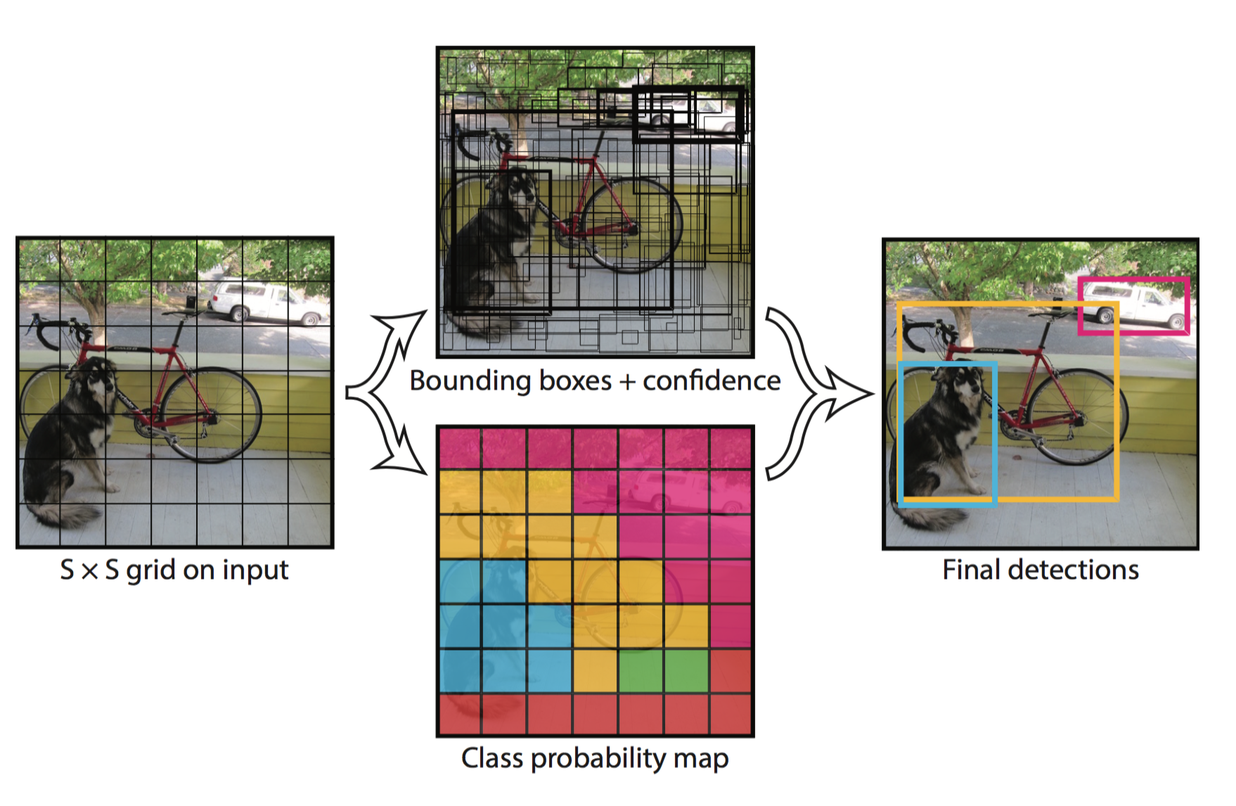
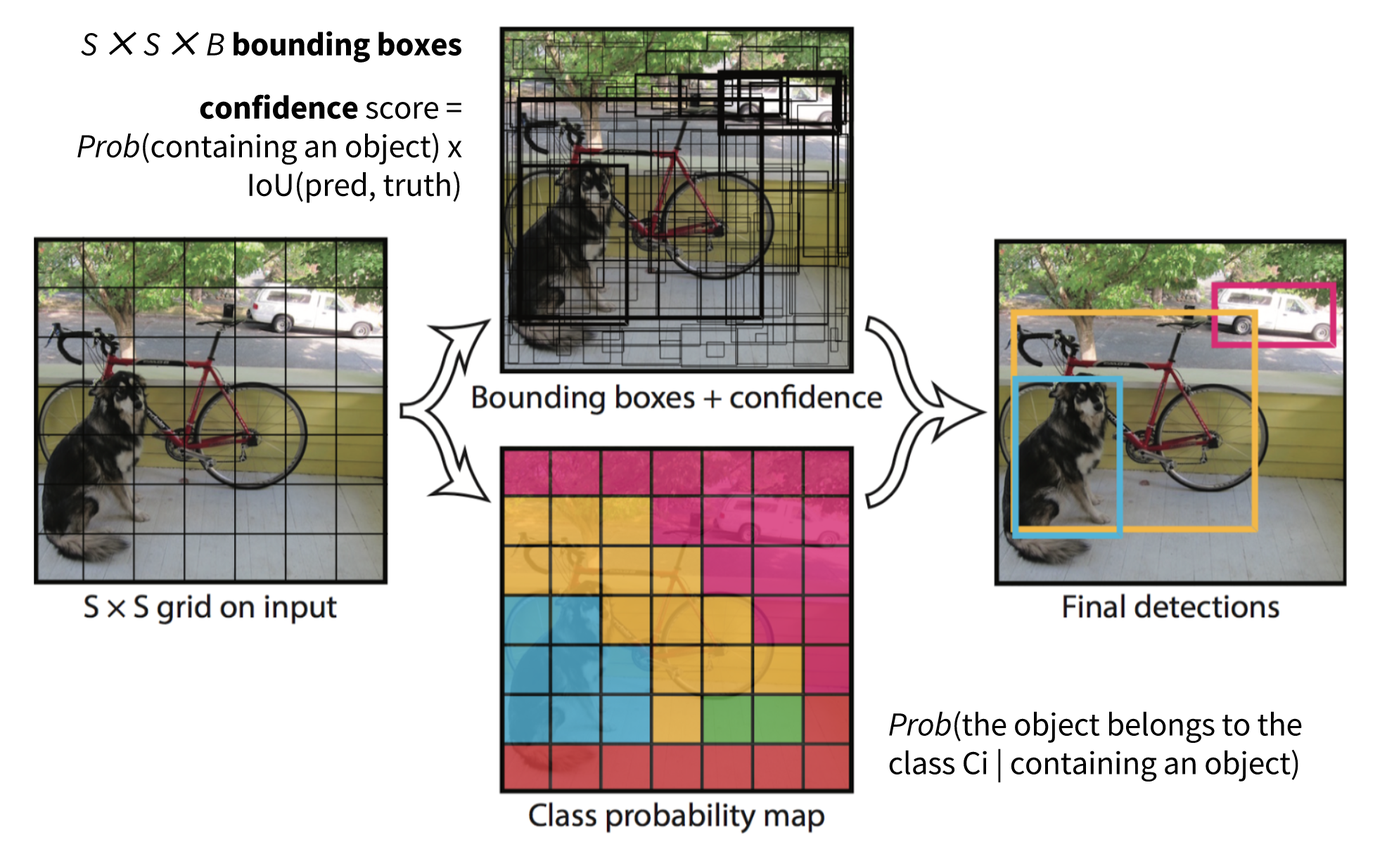
add object recognition for dummies part 3

Changed region(s): [[0.0, 0.0305, 0.9829, 0.9773]]

diff --git a/_posts/2017-12-31-object-recognition-for-dummies-part-3.md b/_posts/2017-12-31-object-recognition-for-dummies-part-3.md
@@ -1,0 +1,339 @@
+---
+layout: post
+comments: false
+title: "Object Recognition for Dummies Part 3: R-CNN and Fast/Faster/Mask R-CNN and YOLO"
+date: 2017-12-31 23:00:00
+---
+
+> In Part 3, we would examine five object recognition models: R-CNN, Fast R-CNN, Faster R-CNN, Mask R-CNN and YOLO. These models are highly related and the new versions show great speed improvement compared to the older ones.
+
+
+<!--more-->
+
+In the series of "Object Recognition for Dummies", we started with basic concepts in image processing, such as gradient vectors and HOG, in [Part 1]({{ site.baseurl }}{% post_url 2017-10-29-object-recognition-for-dummies-part-1 %}). Then we introduced classic convolutional neural network architecture designs for classification and pioneer models for object recognition, Overfeat and DPM, in [Part 2]({{ site.baseurl }}{% post_url 2017-12-15-object-recognition-for-dummies-part-2 %}). In the last post of this series, we are about to review a set of models in the R-CNN ("Region-based CNN") family and YOLO for fast recognition.
+
+{: class="table-of-content"}
+* TOC
+{:toc}
+
+
+
+Here is a list of papers covered in this post ;)
+
+| **Model**    | **Goal**           | **Resources**  |
+| R-CNN        | Object recognition | [[paper](https://arxiv.org/abs/1311.2524)][[code](https://github.com/rbgirshick/rcnn)]   |
+| Fast R-CNN   | Object recognition | [[paper](https://arxiv.org/abs/1504.08083)][[code](https://github.com/rbgirshick/fast-rcnn)]   |
+| Faster R-CNN | Object recognition | [[paper](https://arxiv.org/abs/1506.01497)][[code](https://github.com/rbgirshick/py-faster-rcnn)]  |
+| Mask R-CNN   | Image segmentation | [[paper](https://arxiv.org/abs/1703.06870)][[code](https://github.com/CharlesShang/FastMaskRCNN)] |
+| YOLO         | Fast object recognition | [[paper](https://www.cv-foundation.org/openaccess/content_cvpr_2016/papers/Redmon_You_Only_Look_CVPR_2016_paper.pdf)][[code](https://pjreddie.com/darknet/yolo/)]   |
+{:.info}
+
+
+## R-CNN
+
+R-CNN ([Girshick et al., 2014](https://arxiv.org/abs/1311.2524)) is short for "Region-based Convolutional Neural Networks". The main idea is composed of two steps. First, using [selective search]({{ site.baseurl }}{% post_url 2017-10-29-object-recognition-for-dummies-part-1 %}#selective-search), it identifies a manageable number of bounding-box object region candidates ("region of interest" or "RoI"). And then it extracts CNN features from each region independently for classification.
+
+
+![Architecture of R-CNN]({{ '/assets/images/RCNN.png' | relative_url }})
+{: style="width: 100%;" class="center"}
+*Fig. 1. The architecture of R-CNN. (Image source: [Girshick et al., 2014](https://arxiv.org/abs/1311.2524))*
+
+
+### Model Workflow
+
+How R-CNN works can be summarized as follows:
+
+1. Pre-train a CNN network on image classification tasks; for example, VGG or ResNet trained on [ImageNet](http://image-net.org/index) dataset. The classification task involves N classes. 
+<br />
+*NOTE: You can find a pre-trained [AlexNet](https://github.com/BVLC/caffe/tree/master/models/bvlc_alexnet) in Caffe Model [Zoo](https://github.com/caffe2/caffe2/wiki/Model-Zoo). I don’t think you can [find it](https://github.com/tensorflow/models/issues/1394) in Tensorflow, but Tensorflow-slim model [library](https://github.com/tensorflow/models/tree/master/research/slim) provides pre-trained ResNet, VGG, and others.*
+2. Propose category-independent regions of interest by selective search (~2k candidates per image). Those regions may contain target objects and they are of different sizes.
+3. Region candidates are warped to have a fixed size as required by CNN.
+4. Continue fine-tuning the CNN on warped proposal regions for K + 1 classes; The additional one class refers to the background (no object of interest). In the fine-tuning stage, we should use a much smaller learning rate and the mini-batch oversamples the positive cases because most proposed regions are just background.
+5. Given every image region, one forward propagation through the CNN generates a feature vector. This feature vector is then consumed by a binary SVM trained for each class independently. 
+<br />
+The positive samples are proposed regions with IoU (intersection over union) overlap threshold >= 0.3, and negative samples are irrelevant others.
+6. To reduce the localization errors, a regression model is trained to correct the predicted detection window on bounding box correction offset using CNN features.
+
+
+### Speed Bottleneck
+
+Looking through the R-CNN learning steps, you could easily find out that training an R-CNN model is expensive and slow, as the following steps involve a lot of work:
+- Running selective search to propose 2000 region candidates for every image;
+- Generating the CNN feature vector for every image region (N images * 2000).
+- The whole process involves three models separately without much shared computation: the convolutional neural network for image classification and feature extraction; the top SVM classifier for identifying target objects; and the regression model for tightening region bounding boxes.
+
+
+
+## Fast R-CNN
+
+To make R-CNN faster, Girshick ([2015](https://arxiv.org/pdf/1504.08083.pdf)) improved the training procedure by unifying three independent models into one jointly trained framework and increasing shared computation results, named **Fast R-CNN**. Instead of extracting CNN feature vectors independently for each region proposal, this model aggregates them into one CNN forward pass over the entire image and the region proposals share this feature matrix. Then the same feature matrix is branched out to be used for learning the object classifier and the bounding-box regressor. In conclusion, computation sharing speeds up R-CNN.
+
+![Fast R-CNN]({{ '/assets/images/fast-RCNN.png' | relative_url }})
+{: style="width: 540px;" class="center"}
+*Fig. 2. The architecture of Fast R-CNN. (Image source: [Girshick, 2015](https://arxiv.org/pdf/1504.08083.pdf))*
+
+
+### RoI Pooling
+
+It is a type of max pooling to convert features in the projected region of the image of any size, h x w, into a small fixed window, H x W. The input region is divided into H x W grids, approximately every subwindow of size h/H x w/W. Then apply max-pooling in each grid.
+
+
+![RoI pooling]({{ '/assets/images/roi-pooling.png' | relative_url }})
+{: style="width: 540px;" class="center"}
+*Fig. 3. RoI pooling (Image source: [Stanford CS231n slides](http://cs231n.stanford.edu/slides/2016/winter1516_lecture8.pdf).)*
+
+
+### Model Workflow
+
+How Fast R-CNN works is summarized as follows; many steps are same as in R-CNN: 
+1. First, pre-train a convolutional neural network on image classification tasks.
+2. Propose regions by selective search (~2k candidates per image).
+3. Alter the pre-trained CNN:
+	- Replace the last max pooling layer of the pre-trained CNN with a [RoI pooling](#roi-pooling) layer. The RoI pooling layer outputs fixed-length feature vectors of region proposals. Sharing the CNN computation makes a lot of sense, as many region proposals of the same images are highly overlapped.
+	- Replace the last fully connected layer and the last softmax layer (K classes) with a fully connected layer and softmax over K + 1 classes.
+4. Finally the model branches into two output layers:
+	- A softmax estimator of K + 1 classes (same as in R-CNN, +1 is the "background" class), outputting a discrete probability distribution per RoI.
+	- A bounding-box regression model which predicts offsets relative to the original RoI for each of K classes.
+
+
+### Loss Function
+
+The model is optimized for a loss combining two tasks (classification + localization):
+
+| **Symbol** | **Explanation** |
+| $$u$$ | True class label, $$ u \in 0, 1, \dots, K$$; by convention, the catch-all background class has $$u = 0$$. |
+| $$p$$ | Discrete probability distribution (per RoI) over K + 1 classes: $$p = (p_0, \dots, p_K)$$, computed by a softmax over the K + 1 outputs of a fully connected layer. |
+| $$v$$ | True bounding box $$ v = (v_x, v_y, v_w, v_h) $$. |
+| $$t^u$$ | Predicted bounding box correction, $$t^u = (t^u_x, t^u_y, t^u_w, t^u_h)$$. |
+{:.info}
+
+
+The loss function sums up the cost of classification and bounding box prediction: $$\mathcal{L} = \mathcal{L}_\text{cls} + \mathcal{L}_\text{box}$$. For "background" RoI, $$\mathcal{L}_\text{box}$$ is ignored by the indicator function $$\mathbb{1} [u \geq 1]$$, defined as:
+
+$$
+\mathbb{1} [u >= 1] = \begin{cases}
+    1  & \text{if } u \geq 1\\
+    0  & \text{otherwise}
+\end{cases}
+$$
+
+The overall loss function is:
+
+$$
+\begin{align*}
+\mathcal{L}(p, u, t^u, v) &= \mathcal{L}_\text{cls} (p, u) + \mathbb{1} [u \geq 1] \mathcal{L}_\text{box}(t^u, v) \\
+\mathcal{L}_\text{cls}(p, u) &= -\log p_u \\
+\mathcal{L}_\text{box}(t^u, v) &= \sum_{i \in \{x, y, w, h\}} L_1^\text{smooth} (t^u_i - v_i)
+\end{align*}
+$$
+
+The bounding box loss $$\mathcal{L}_{box}$$ should measure the difference between $$t^u_i$$ and $$v_i$$ using a **robust** loss function. The [smooth L1 loss](https://github.com/rbgirshick/py-faster-rcnn/files/764206/SmoothL1Loss.1.pdf) is adopted here and it is claimed to be less sensitive to outliers.
+
+$$
+L_1^\text{smooth}(x) = \begin{cases}
+    0.5 x^2             & \text{if } \vert x \vert < 1\\
+    \vert x \vert - 0.5 & \text{otherwise}
+\end{cases}
+$$
+
+![Smooth L1 loss]({{ '/assets/images/l1-smooth.png' | relative_url }})
+{: style="width: 240px;" class="center"}
+*Fig. 4. The plot of smooth L1 loss, $$y = L_1^\text{smooth}(x)$$. (Image source: [link](https://github.com/rbgirshick/py-faster-rcnn/files/764206/SmoothL1Loss.1.pdf))*
+
+
+
+### Speed Bottleneck
+
+Fast R-CNN is much faster in both training and testing time. However, the improvement is not dramatic because the region proposals are generated separately by another model and that is very expensive.
+
+
+## Faster R-CNN
+
+An intuitive speedup solution is to integrate the region proposal algorithm into the CNN model. **Faster R-CNN** ([Ren et al., 2016](https://arxiv.org/pdf/1506.01497.pdf)) is doing exactly this: construct a single, unified model composed of RPN (region proposal network) and fast R-CNN with shared convolutional feature layers.
+
+![Faster R-CNN]({{ '/assets/images/faster-RCNN.png' | relative_url }})
+{: style="width: 100%;" class="center"}
+*Fig. 5. An illustration of Faster R-CNN model. (Image source: [Ren et al., 2016](https://arxiv.org/pdf/1506.01497.pdf))*
+
+
+### Model Workflow
+
+1. Pre-train a CNN network on image classification tasks.
+2. Fine-tune the RPN (region proposal network) end-to-end for the region proposal task, which is initialized by the pre-train image classifier. Positive samples have IoU (intersection-over-union) > 0.7, while negative samples have IoU < 0.3.
+	- Slide a small n x n spatial window over the conv feature map of the entire image.
+	- At the center of each sliding window, we predict multiple regions of various scales and ratios simultaneously. An anchor is a combination of (sliding window center, scale, ratio). For example, 3 scales + 3 ratios => k=9 anchors at each sliding position.
+3. Train a Fast R-CNN object detection model using the proposals generated by the current RPN
+4. Then use the Fast R-CNN network to initialize RPN training. While keeping the shared convolutional layers, only fine-tune the RPN-specific layers. At this stage, RPN and the detection network have shared convolutional layers!
+5. Finally fine-tune the unique layers of Fast R-CNN
+6. Step 4-5 can be repeated to train RPN and Fast R-CNN alternatively if needed.
+
+
+### Loss Function
+
+Faster R-CNN is optimized for a multi-task loss function, similar to fast R-CNN.
+
+| **Symbol**  | **Explanation** |
+| $$p_i$$     | Predicted probability of anchor i being an object. |
+| $$p^*_i$$   | Ground truth label (binary) of whether anchor i is an object. |
+| $$t_i$$     | Predicted four parameterized coordinates. |
+| $$t^*_i$$   | Ground truth coordinates. |
+| $$N_\text{cls}$$ | Normalization term, set to be mini-batch size (~256) in the paper. |
+| $$N_\text{box}$$ | Normalization term, set to the number of anchor locations (~2400) in the paper. |
+| $$\lambda$$ | A balancing parameter, set to be ~10 in the paper (so that both $$\mathcal{L}_\text{cls}$$ and $$\mathcal{L}_\text{box}$$ terms are roughly equally weighted). |
+{:.info}
+
+The multi-task loss function combines the losses of classification and bounding box regression:
+
+$$
+\begin{align*}
+\mathcal{L} &= \mathcal{L}_\text{cls} + \mathcal{L}_\text{box} \\
+\mathcal{L}(\{p_i\}, \{t_i\}) &= \frac{1}{N_\text{cls}} \sum_i \mathcal{L}_\text{cls} (p_i, p^*_i) + \frac{\lambda}{N_\text{box}} \sum_i p^*_i \cdot L_1^\text{smooth}(t_i - t^*_i) \\
+\end{align*}
+$$
+
+where $$\mathcal{L}_\text{cls}$$ is the log loss function over two classes, as we can easily translate a multi-class classification into a binary classification by predicting a sample being a target object versus not. $$L_1^\text{smooth}$$ is the smooth L1 loss.
+
+$$
+\mathcal{L}_\text{cls} (p_i, p^*_i) = - p^*_i \log p_i - (1 - p^*_i) \log (1 - p_i)
+$$
+
+
+
+## Mask R-CNN
+
+Mask R-CNN ([He et al., 2017](https://arxiv.org/pdf/1703.06870.pdf)) extends Faster R-CNN to pixel-level [image segmentation]({{ site.baseurl }}{% post_url 2017-10-29-object-recognition-for-dummies-part-1 %}#image-segmentation-felzenszwalbs-algorithm). The key point is to decouple the classification and the pixel-level mask prediction tasks. Based on the framework of [Faster R-CNN](#faster-r-cnn), it added a third branch for predicting an object mask in parallel with the existing branches for classification and localization. The mask branch is a small fully-connected network applied to each RoI, predicting a segmentation mask in a pixel-to-pixel manner.
+
+![Mask R-CNN]({{ '/assets/images/mask-rcnn.png' | relative_url }})
+{: style="width: 550px;" class="center"}
+*Fig. 6. Mask R-CNN is Faster R-CNN model with image segmentation. (Image source: [He et al., 2017](https://arxiv.org/pdf/1703.06870.pdf))*
+
+Because pixel-level segmentation requires much more fine-grained alignment than bounding boxes, mask R-CNN improves the RoI pooling layer (named "RoIAlign layer") so that RoI can be better and more precisely mapped to the regions of the original image.
+
+
+![Mask R-CNN Examples]({{ '/assets/images/mask-rcnn-examples.png' | relative_url }})
+{: style="width: 600px;" class="center"}
+*Fig. 7. Predictions by Mask R-CNN on COCO test set. (Image source: [He et al., 2017](https://arxiv.org/pdf/1703.06870.pdf))*
+
+
+### RoIAlign
+
+The RoIAlign layer is designed to fix the location misalignment caused by quantization in the RoI pooling. RoIAlign removes the hash quantization, for example, by using x/16 instead of [x/16], so that the extracted features can be properly aligned with the input pixels. [Bilinear interpolation](https://en.wikipedia.org/wiki/Bilinear_interpolation) is used for computing the floating-point location values in the input.
+
+
+![RoI Align]({{ '/assets/images/roi-align.png' | relative_url }})
+{: style="width: 600px;" class="center"}
+*Fig. 8. A region of interest is mapped **accurately** from the original image onto the feature map without rounding up to integers. (Image source: [link](https://blog.athelas.com/a-brief-history-of-cnns-in-image-segmentation-from-r-cnn-to-mask-r-cnn-34ea83205de4))*
+
+
+### Loss Function
+
+The multi-task loss function of Mask R-CNN combines the loss of classification, localization and segmentation mask: $$ \mathcal{L} = \mathcal{L}_\text{cls} + \mathcal{L}_\text{box} + \mathcal{L}_\text{mask}$$, where $$\mathcal{L}_\text{cls}$$ and $$\mathcal{L}_\text{box}$$ are same as in Faster R-CNN.
+
+
+The mask branch generates a mask of dimension m x m for each RoI and each class; K classes in total. Thus, the total output is of size $$K \cdot m^2$$. Because the model is trying to learn a mask for each class, there is no competition among classes for generating masks.
+
+$$\mathcal{L}_\text{mask}$$ is defined as the average binary cross-entropy loss, only including k-th mask if the region is associated with the ground truth class k.
+
+$$
+\mathcal{L}_\text{mask} = - \frac{1}{m^2} \sum_{1 \leq i, j \leq m} \big[ y_{ij} \log \hat{y}^k_{ij} + (1-y_{ij}) \log (1- \hat{y}^k_{ij}) \big]
+$$
+
+where $$y_{ij}$$ is the label of a cell (i, j) in the true mask for the region of size m x m; $$\hat{y}_{ij}^k$$ is the predicted value of the same cell in the mask learned for the ground-truth class k.
+
+
+
+
+## Summary of Models in the R-CNN family
+
+Here I illustrate model designs of R-CNN, Fast R-CNN, Faster R-CNN and Mask R-CNN. You can track how one model evolves to the next version by comparing the small differences.
+
+![R-CNN family summary]({{ '/assets/images/rcnn-family-summary.png' | relative_url }})
+{: style="width: 100%;" class="center"}
+
+
+
+## YOLO: You Only Look Once
+
+The YOLO model ("You Only Look Once"; [Redmon et al., 2016](https://www.cv-foundation.org/openaccess/content_cvpr_2016/papers/Redmon_You_Only_Look_CVPR_2016_paper.pdf)) treats the object recognition task as a unified **regression** problem, different from the models in the R-CNN family which learn to solve a **classification** task. In the meantime, YOLO sees the entire image during training and thus it has better performance in recognizing the background with the knowledge of the full context.
+
+
+- **Pros**: Very fast.
+- **Cons**: Accuracy tradeoff; not good at recognizing irregularly shaped objects or a group of small objects (i.e. a flock of birds?)
+
+
+### Workflow
+
+![Mask R-CNN Examples]({{ '/assets/images/YOLO.png' | relative_url }})
+{: style="width: 600px;" class="center"}
+*Fig. 8. The workflow of POLO model. (Image source: [Redmon et al., 2016](https://www.cv-foundation.org/openaccess/content_cvpr_2016/papers/Redmon_You_Only_Look_CVPR_2016_paper.pdf))*
+
+1. Pre-train a CNN network on image classification tasks.
+2. Split an image into S x S cells. Each cell is responsible for identifying the object (if any) with its center located in this cell. Each cell predicts the location of B bounding boxes and a confidence score, and a probability of object class conditioned on the existence of an object in the bounding box.
+	- A bounding box is defined by a tuple of (center x, center y, width, height) --- $$(x, y, w, h)$$. $$x$$ and $$y$$ are normalized to be the offsets of a cell location; $$w$$ and $$h$$ are normalized by the image width and height, and thus between (0, 1].
+	- A confidence score is: *probability*(containing an object) x IoU(pred, truth).
+	- If the cell contains an object, it predicts a probability of this object belonging to one class $$C_i$$, i=1,2,..., K: *probability*(the object belongs to the class $$C_i$$ | containing an object). At this stage, the model only predicts one set of class probabilities per cell, regardless of the number of boxes B.
+	<br />
+	In total, one image contains S x S x B bounding boxes, each box corresponding to 4 location predictions, 1 confidence score, and K conditional probability for object classification. The total prediction values for one image is S x S x (5B + K).
+3. The final layer of the pre-trained CNN is modified to output a prediction tensor of size S x S x (5B + K).
+
+
+### Loss Function
+
+The YOLO is trained to minimize the sum of squared errors, with scale parameters to control how much we want to increase the loss from bounding box coordinate predictions ($$\lambda_\text{coord}$$) and how much we want to decrease the loss from confidence predictions for boxes that don't contain objects ($$\lambda_\text{noobj}$$). In the paper, the model uses $$\lambda_\text{coord} = 5$$ and $$\lambda_\text{noobj} = 0.5$$.
+
+When 
+
+$$
+\begin{align*}
+\mathcal{L} &= 
+\lambda_\text{coord} \sum_{i=0}^{S^2} \sum_{j=0}^B \mathbb{1}_{ij}^\text{obj} [(x_i - \hat{x}_i)^2 + (y_i - \hat{y}_i)^2 + (\sqrt{w_i} - \sqrt{\hat{w}_i})^2 + (\sqrt{h_i} - \sqrt{\hat{h}_i})^2 ] \\
+&+ \sum_{i=0}^{S^2} \sum_{j=0}^B \mathbb{1}_{ij}^\text{obj} (C_{ij} - \hat{C}_{ij})^2 + \lambda_\text{noobj} \sum_{i=0}^{S^2} \sum_{j=0}^B \mathbb{1}_{ij}^\text{noobj} (C_{ij} - \hat{C}_{ij})^2 + \sum_{i=0}^{S^2} \mathbb{1}_i^\text{obj} \sum_{c \in \text{classes}} (p_i(c) - \hat{p}_i(c))^2
+\end{align*}
+$$
+
+where:
+
+| **Symbol**                     | **Explanation** |
+| $$\mathbb{1}_i^\text{obj}$$    | whether the cell i contains an object. | 
+| $$\mathbb{1}_{ij}^\text{obj}$$ | j-th bounding box predictor of the cell i is "responsible" for that prediction (See Fig. 9). |
+| $$C_{ij}$$     | confidence score of the j-th box in cell i, probability(containing an object) * IoU(pred, truth). |
+| $$\hat{C}_{ij}$$ | predicted confidence score. |
+| $$p_i(c)$$       | conditional probability of whether cell i contains an object of class c.   |
+| $$\hat{p}_i(c)$$       | predicted conditional probability of whether cell i contains an object of class c.  |
+{:.info}
+
+> NOTE: In the original YOLO paper, the loss function uses $$C_i$$ instead of $$C_{ij}$$. I made the correction based on my own understanding. Please kindly let me if you do not agree. Many thanks.
+
+
+![Mask R-CNN Examples]({{ '/assets/images/YOLO_predictor.png' | relative_url }})
+{: style="width: 560px;" class="center"}
+*Fig. 9. At one location, in cell i, the model proposes B bounding box candidates and the one with highest IoU with the ground truth is the "responsible" predictor.*
+
+
+The loss function only penalizes classification error if an object is present in that grid cell, $$\mathbb{1}_i^\text{obj} = 1$$. It also only penalizes bounding box coordinate error if that predictor is "responsible" for the ground truth box, $$\mathbb{1}_{ij}^\text{obj} = 1$$.
+
+
+
+
+## Reference
+
+[1] Ross Girshick, Jeff Donahue, Trevor Darrell, and Jitendra Malik. ["Rich feature hierarchies for accurate object detection and semantic segmentation."](https://www.cv-foundation.org/openaccess/content_cvpr_2014/papers/Girshick_Rich_Feature_Hierarchies_2014_CVPR_paper.pdf) In Proc. IEEE Conf. on computer vision and pattern recognition (CVPR), pp. 580-587. 2014.
+
+[2] Ross Girshick. ["Fast R-CNN."](https://arxiv.org/pdf/1504.08083.pdf) In Proc. IEEE Intl. Conf. on computer vision, pp. 1440-1448. 2015.
+
+[3] Shaoqing Ren, Kaiming He, Ross Girshick, and Jian Sun. ["Faster R-CNN: Towards real-time object detection with region proposal networks."](http://papers.nips.cc/paper/5638-faster-r-cnn-towards-real-time-object-detection-with-region-proposal-networks.pdf) In Advances in neural information processing systems (NIPS), pp. 91-99. 2015.
+
+[4] Kaiming He, Georgia Gkioxari, Piotr Dollár, and Ross Girshick. ["Mask R-CNN."](https://arxiv.org/pdf/1703.06870.pdf) arXiv preprint arXiv:1703.06870, 2017.
+
+[5] Joseph Redmon, Santosh Divvala, Ross Girshick, and Ali Farhadi. ["You only look once: Unified, real-time object detection."](https://www.cv-foundation.org/openaccess/content_cvpr_2016/papers/Redmon_You_Only_Look_CVPR_2016_paper.pdf) In Proc. IEEE Conf. on computer vision and pattern recognition (CVPR), pp. 779-788. 2016.
+
+[6] ["A Brief History of CNNs in Image Segmentation: From R-CNN to Mask R-CNN"](https://blog.athelas.com/a-brief-history-of-cnns-in-image-segmentation-from-r-cnn-to-mask-r-cnn-34ea83205de4) by Athelas.
+
+[7] Smooth L1 Loss: [https://github.com/rbgirshick/py-faster-rcnn/files/764206/SmoothL1Loss.1.pdf](https://github.com/rbgirshick/py-faster-rcnn/files/764206/SmoothL1Loss.1.pdf)
+
+
+---
+
+*If you notice mistakes and errors in this post, please don't hesitate to contact me at [lilian dot wengweng at gmail dot com] and I would be super happy to correct them right away!*
+
+See you in the next post :D

diff --git a/_posts/2017-12-15-object-recognition-for-dummies-part-2.md b/_posts/2017-12-15-object-recognition-for-dummies-part-2.md
@@ -12,7 +12,7 @@ date: 2017-12-15 23:00:00
 
 [Part 1]({{ site.baseurl }}{% post_url 2017-10-29-object-recognition-for-dummies-part-1 %}) of the "Object Recognition for Dummies" series introduced: (1) the concept of image gradient vector and how HOG algorithm summarizes the information across all the gradient vectors in one image; (2) how the image segmentation algorithm works to detect regions that potentially contain objects; (3) how the Selective Search algorithm refines the outcomes of image segmentation for better region proposal. 
 
-In Part 2, we are about to find out more on the classic convolution neural network architectures for image classification. They lay the ___foundation___ for further progress on the deep learning models for object recognition.
+In Part 2, we are about to find out more on the classic convolution neural network architectures for image classification. They lay the ___foundation___ for further progress on the deep learning models for object recognition. Go check [Part 3]({{ site.baseurl }}{% post_url 2017-12-31-object-recognition-for-dummies-part-3 %}) if you want to learn more on R-CNN and related models.
 
 
 {: class="table-of-content"}
@@ -128,7 +128,7 @@ The author later claimed that DPM and CNN models are not two distinct approaches
 
 Overfeat [[paper](https://pdfs.semanticscholar.org/f2c2/fbc35d0541571f54790851de9fcd1adde085.pdf)][[code](https://github.com/sermanet/OverFeat)] is a pioneer model of integrating the object detection, localization and classification tasks all into one convolutional neural network. The main idea is to (i) do image classification at different locations on regions of multiple scales of the image in a sliding window fashion, and (ii) predict the bounding box locations with a regressor trained on top of the same convolution layers.
 
-The Overfeat model architecture is very similar to [AlexNet]({{ site.baseurl }}{% post_url 2017-12-15-object-recognition-for-dummies-part-2 %}#alexnet-krizhevsky-et-al-2012). It is trained as follows:
+The Overfeat model architecture is very similar to [AlexNet](#alexnet-krizhevsky-et-al-2012). It is trained as follows:
 
 
 ![Overfeat training]({{ '/assets/images/overfeat-training.png' | relative_url }})

diff --git a/_posts/2017-10-29-object-recognition-for-dummies-part-1.md b/_posts/2017-10-29-object-recognition-for-dummies-part-1.md
@@ -10,7 +10,7 @@ date: 2017-10-29 17:38:00
 
 <!--more-->
 
-I've never worked in the field of computer vision and has no idea how the magic could work when an autonomous car is configured to tell apart a stop sign from a pedestrian in a red hat. To motivate myself to look into the maths behind object recognition algorithms, I'm writing a few posts on this topic "Object Recognition for Dummies". This post, part 1, starts with super rudimentary concepts in image processing and a few methods for image segmentation. Nothing related to deep neural networks yet. Deep learning models for object recognition will be discussed in part 2 [Link to be added].
+I've never worked in the field of computer vision and has no idea how the magic could work when an autonomous car is configured to tell apart a stop sign from a pedestrian in a red hat. To motivate myself to look into the maths behind object recognition algorithms, I'm writing a few posts on this topic "Object Recognition for Dummies". This post, part 1, starts with super rudimentary concepts in image processing and a few methods for image segmentation. Nothing related to deep neural networks yet. Deep learning models for object recognition will be discussed in [Part 2]({{ site.baseurl }}{% post_url 2017-12-15-object-recognition-for-dummies-part-2 %}) and [Part 3]({{ site.baseurl }}{% post_url 2017-12-31-object-recognition-for-dummies-part-3 %}).
 
 
 {: class="table-of-content"}
